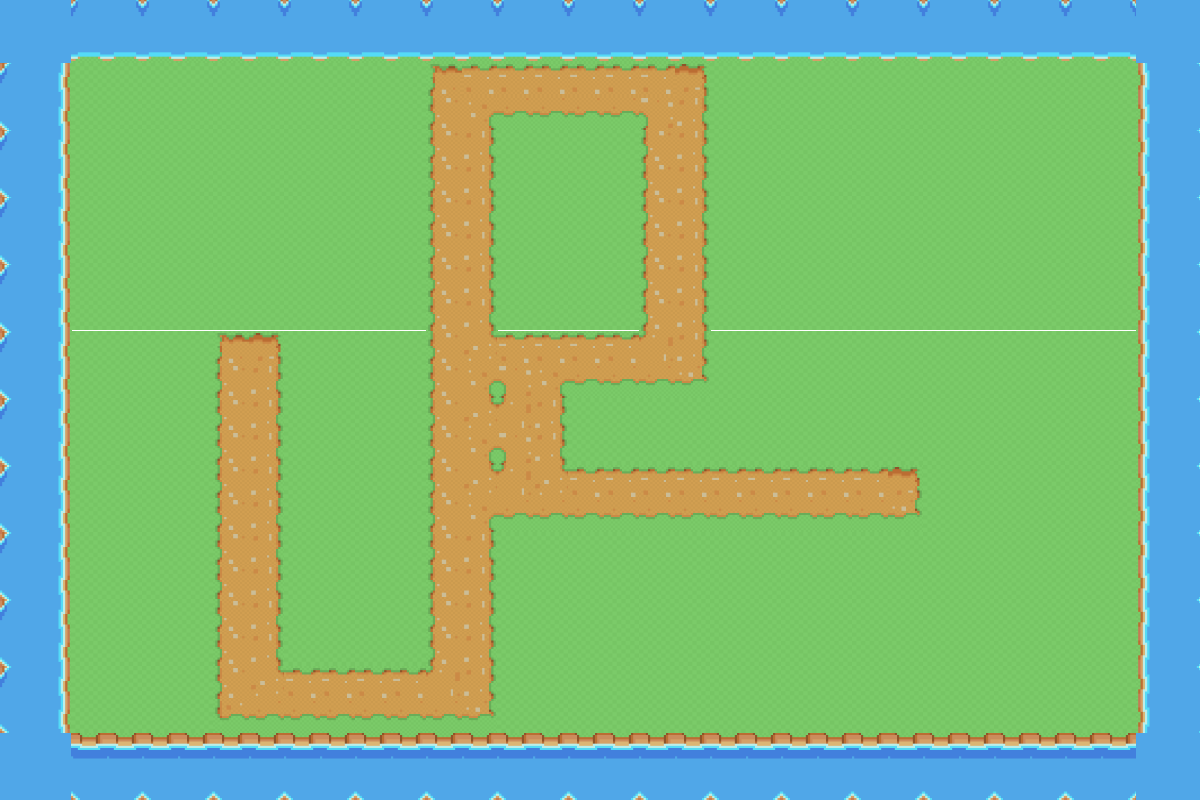
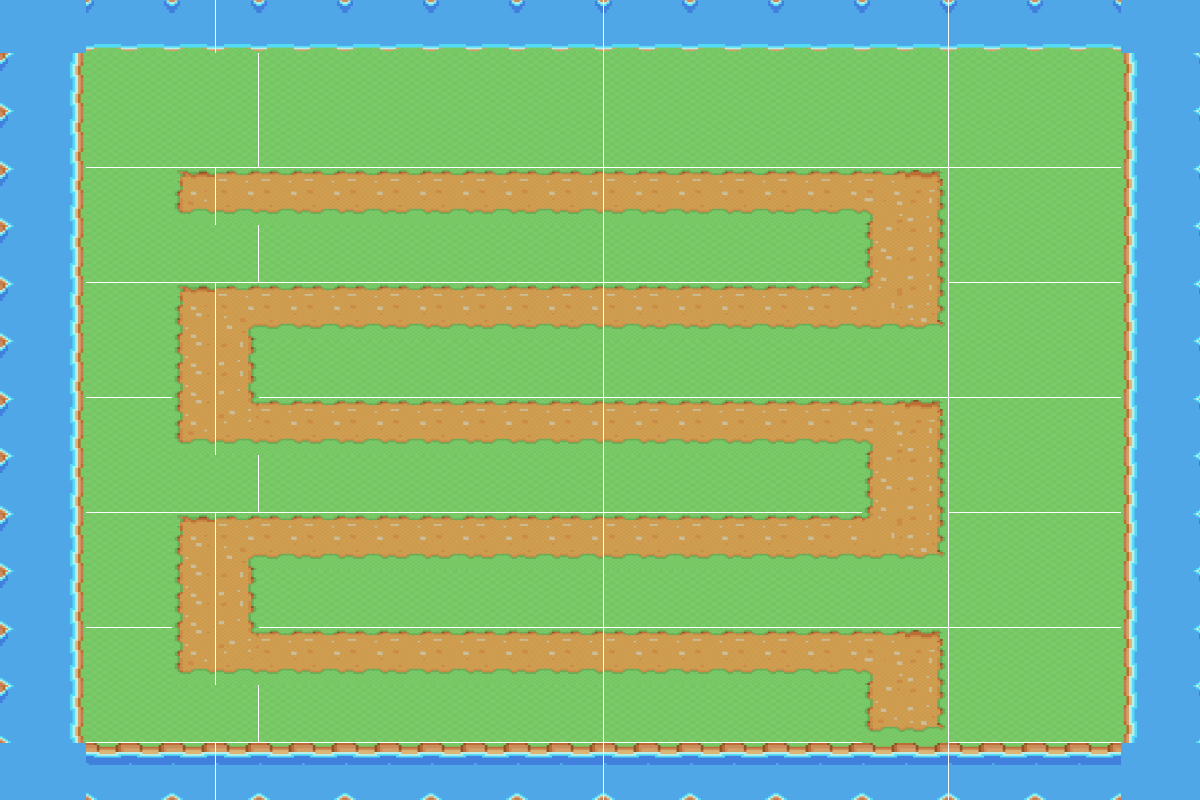
New visuals of tiles in level editor. We can now extends spawn location.

diff --git a/src/warcraftTD/WorldEditor.java b/src/warcraftTD/WorldEditor.java
@@ -21,8 +21,6 @@ public class WorldEditor extends World{
 
     private TreeMap<Position, Tile> positionTileMap;
 
-    private boolean displayWater;
-
     public WorldEditor(int width, int height, MainMenu menu) throws UnsupportedAudioFileException, IOException, LineUnavailableException {
         super(width, height, menu);
         this.setNbSquareX(11);
@@ -33,8 +31,11 @@ public class WorldEditor extends World{
         StdDraw.enableDoubleBuffering();
 
         this.HUD = new InterfaceEditor(this);
-        this.displayWater = false;
         this.positionTileMap = new TreeMap<>();
+        generatePath();
+
+        //this.positionTileMap.put(new Position(2,0),new Pathway(new Position(0.16,0.05), 0.1,0.1));
+        //this.positionTileMap.get(new Position(2,0)).updateDirectionValue(this.positionTileMap, true);
     }
 
     public void refreshSquareSize(){
@@ -89,7 +90,7 @@ public class WorldEditor extends World{
     }
 
     public void drawBackground() {
-        for (int i = 0; i < this.getNbSquareX(); i++) {
+        /*for (int i = 0; i < this.getNbSquareX(); i++) {
           for (int j = 0; j < this.getNbSquareY(); j++) {
               StdDraw.setPenColor(StdDraw.LIGHT_GREEN);
               StdDraw.filledRectangle(i * this.getSquareWidth() + this.getSquareWidth(), j * this.getSquareHeight() + this.getSquareHeight(), this.getSquareWidth() , this.getSquareHeight());
@@ -97,7 +98,38 @@ public class WorldEditor extends World{
               StdDraw.rectangle(i * this.getSquareWidth() + this.getSquareWidth(), j * this.getSquareHeight() + this.getSquareHeight(), this.getSquareWidth() , this.getSquareHeight());
             //StdDraw.picture(i * squareWidth + squareWidth / 2, j * squareHeight + squareHeight / 2, "images/grass.jpg", squareWidth, squareHeight);
           }
+        }*/
+        for (Map.Entry<Position, Tile> tileEntry : this.positionTileMap.entrySet()) {
+            tileEntry.getValue().drawStaticPart();
         }
+    }
+
+    public void generatePath() {
+        this.positionTileMap = new TreeMap<>();
+
+        for (int i = 0; i < this.getNbSquareX(); i++) {
+            for (int j = 0; j < this.getNbSquareY(); j++) {
+                final Position position = new Position(i, j);
+
+                if (this.getPaths().contains(position)) {
+
+                    final Pathway pathway = new Pathway(position, this.getSquareHeight(), this.getSquareWidth());
+                    this.positionTileMap.put(position, pathway);
+                } else {
+                    final Grass grass = new Grass(position, this.getSquareHeight(), this.getSquareWidth());
+                    this.positionTileMap.put(position, grass);
+                }
+            }
+        }
+
+        /*Position spawnPath = this.getPaths().get(0);
+        Position finishPath = this.getPaths().get(this.getPaths().size() - 1);
+        this.positionTileMap.get(spawnPath).replaceContains(new IndestructibleEntity("images/tiles/rock.png", 0.1));
+        this.positionTileMap.get(finishPath).replaceContains(new IndestructibleEntity("images/tiles/house.png", 0.15));*/
+
+
+        this.positionTileMap.forEach((position, tile) -> tile.updateDirectionValue(this.positionTileMap, false));
+
     }
 
     /**
@@ -105,7 +137,7 @@ public class WorldEditor extends World{
      */
     public void drawPath() {
         StdDraw.setPenColor(StdDraw.YELLOW);
-		 Iterator<Position> i = getPaths().iterator();
+		 /*Iterator<Position> i = getPaths().iterator();
 		 Position p;
 		 while (i.hasNext()) {
 		 	p = i.next();
@@ -116,12 +148,19 @@ public class WorldEditor extends World{
 			 StdDraw.setPenColor(StdDraw.PRINCETON_ORANGE);
              StdDraw.rectangle(coorX, coorY, this.getSquareWidth()/2 , this.getSquareHeight()/2);
 			 //StdDraw.picture(coorX, coorY, "images/sand.jpg", squareWidth, squareHeight);
-		 }
+		 }*/
 		 if(this.getPaths().size()>0){
              StdDraw.setPenColor(StdDraw.BLACK);
              StdDraw.setFont(new Font("Arial", Font.BOLD, 30));
 		     StdDraw.text(this.getPaths().get(0).getX()/this.getNbSquareX() + this.getSquareWidth()/2,this.getPaths().get(0).getY()/this.getNbSquareY() + this.getSquareHeight()/2, "Spawn");
          }
+    }
+
+    public void clearPath(){
+        for(Position p : this.getPaths()){
+            this.positionTileMap.put(p,new Grass(p, this.getSquareHeight(),this.getSquareWidth()));
+        }
+        this.getPaths().clear();
     }
 
     public int update() {
@@ -133,10 +172,7 @@ public class WorldEditor extends World{
     }
 
     public void mouseClick(double x, double y, int mouseButton) throws UnsupportedAudioFileException, IOException, LineUnavailableException {
-        double normalizedX = (int) (x / this.getSquareWidth()) * this.getSquareWidth() + this.getSquareWidth() / 2;
-        double normalizedY = (int) (y / this.getSquareHeight()) * this.getSquareHeight() + this.getSquareHeight() / 2;
-        Position p = new Position(normalizedX, normalizedY);
-        Position mousep = new Position((int) ((normalizedX * this.getNbSquareX())), (int) ((normalizedY * this.getNbSquareY())));
+        Position tilePosition = new Position((int) Math.floor(StdDraw.mouseX() * this.getNbSquareX()), (int) Math.floor(StdDraw.mouseY() * this.getNbSquareY()));
 
         if(this.HUD.onClick(x,y,mouseButton)) return;
 
@@ -144,27 +180,53 @@ public class WorldEditor extends World{
             case None:
                 break;
             case Path:
-                if(!this.getPaths().contains(mousep)){
-                    if(((this.getPaths().get(this.getPaths().size()-1).equals(new Position(mousep.getX()+1, mousep.getY())) ? 1 : 0) + (this.getPaths().get(this.getPaths().size()-1).equals(new Position(mousep.getX()-1, mousep.getY())) ? 1 : 0) + (this.getPaths().get(this.getPaths().size()-1).equals(new Position(mousep.getX(), mousep.getY()+1)) ? 1 : 0) + (this.getPaths().get(this.getPaths().size()-1).equals(new Position(mousep.getX(), mousep.getY()-1)) ? 1 : 0) == 1)){
-                        if(((this.getPaths().contains(new Position(mousep.getX()+1, mousep.getY())) ? 1 : 0) + (this.getPaths().contains(new Position(mousep.getX()-1, mousep.getY())) ? 1 : 0) + (this.getPaths().contains(new Position(mousep.getX(), mousep.getY()+1)) ? 1 : 0) + (this.getPaths().contains(new Position(mousep.getX(), mousep.getY()-1)) ? 1 : 0) == 1)) {
-                            this.getPaths().add(mousep);
+                if(!this.getPaths().contains(tilePosition)){
+                    if(((this.getPaths().get(this.getPaths().size()-1).equals(new Position(tilePosition.getX()+1, tilePosition.getY())) ? 1 : 0) + (this.getPaths().get(this.getPaths().size()-1).equals(new Position(tilePosition.getX()-1, tilePosition.getY())) ? 1 : 0) + (this.getPaths().get(this.getPaths().size()-1).equals(new Position(tilePosition.getX(), tilePosition.getY()+1)) ? 1 : 0) + (this.getPaths().get(this.getPaths().size()-1).equals(new Position(tilePosition.getX(), tilePosition.getY()-1)) ? 1 : 0) == 1)){
+                        if(((this.getPaths().contains(new Position(tilePosition.getX()+1, tilePosition.getY())) ? 1 : 0) + (this.getPaths().contains(new Position(tilePosition.getX()-1, tilePosition.getY())) ? 1 : 0) + (this.getPaths().contains(new Position(tilePosition.getX(), tilePosition.getY()+1)) ? 1 : 0) + (this.getPaths().contains(new Position(tilePosition.getX(), tilePosition.getY()-1)) ? 1 : 0) == 1)) {
+                            this.getPaths().add(tilePosition);
+
+                            this.positionTileMap.put(tilePosition,new Pathway(tilePosition, this.getSquareHeight(),this.getSquareWidth()));
+                            this.positionTileMap.get(tilePosition).updateDirectionValue(this.positionTileMap, true);
+                            break;
+                        }
+                    }
+                    if(((this.getPaths().get(0).equals(new Position(tilePosition.getX()+1, tilePosition.getY())) ? 1 : 0) + (this.getPaths().get(0).equals(new Position(tilePosition.getX()-1, tilePosition.getY())) ? 1 : 0) + (this.getPaths().get(0).equals(new Position(tilePosition.getX(), tilePosition.getY()+1)) ? 1 : 0) + (this.getPaths().get(0).equals(new Position(tilePosition.getX(), tilePosition.getY()-1)) ? 1 : 0) == 1)){
+                        if(((this.getPaths().contains(new Position(tilePosition.getX()+1, tilePosition.getY())) ? 1 : 0) + (this.getPaths().contains(new Position(tilePosition.getX()-1, tilePosition.getY())) ? 1 : 0) + (this.getPaths().contains(new Position(tilePosition.getX(), tilePosition.getY()+1)) ? 1 : 0) + (this.getPaths().contains(new Position(tilePosition.getX(), tilePosition.getY()-1)) ? 1 : 0) == 1)) {
+                            this.getPaths().add(0, tilePosition);
+
+                            this.positionTileMap.put(tilePosition,new Pathway(tilePosition, this.getSquareHeight(),this.getSquareWidth()));
+                            this.positionTileMap.get(tilePosition).updateDirectionValue(this.positionTileMap, true);
+                            break;
                         }
                     }
                 }
                 break;
             case RemovePath:
-                if(getPaths().size()>0 && (this.getPaths().get(0).equals(mousep) || this.getPaths().get(this.getPaths().size()-1).equals(mousep))){
-                    this.getPaths().remove(mousep);
+                if(getPaths().size()==0) break;
+                if(this.getPaths().get(0).equals(tilePosition)){
+                    this.getPaths().remove(tilePosition);
+                    this.positionTileMap.put(tilePosition,new Grass(tilePosition, this.getSquareHeight(),this.getSquareWidth()));
                     if(getPaths().size()==0) this.HUD.getPathButton().setEnabled(false);
+                    else this.positionTileMap.get(this.getPaths().get(0)).updateDirectionValue(this.positionTileMap, true);
+                } else if(this.getPaths().get(this.getPaths().size()-1).equals(tilePosition)){
+                    this.getPaths().remove(tilePosition);
+                    this.positionTileMap.put(tilePosition,new Grass(tilePosition, this.getSquareHeight(),this.getSquareWidth()));
+                    if(getPaths().size()==0) this.HUD.getPathButton().setEnabled(false);
+                    else this.positionTileMap.get(this.getPaths().get(this.getPaths().size()-1)).updateDirectionValue(this.positionTileMap, true);
                 }
                 break;
             case Spawn:
-                if(!this.getPaths().contains(mousep)){
+                if(!this.getPaths().contains(tilePosition)){
                     if(this.getPaths().size()==0){
-                        this.getPaths().add(mousep);
+                        this.getPaths().add(tilePosition);
+                        this.positionTileMap.put(tilePosition,new Pathway(tilePosition, this.getSquareHeight(),this.getSquareWidth()));
+                        this.positionTileMap.get(tilePosition).updateDirectionValue(this.positionTileMap, true);
                     } else {
+                        this.positionTileMap.put(this.getPaths().get(0), new Grass(this.getPaths().get(0), this.getSquareHeight(),this.getSquareWidth()));
                         this.setPaths(new ArrayList<Position>());
-                        this.getPaths().add(mousep);
+                        this.getPaths().add(tilePosition);
+                        this.positionTileMap.put(tilePosition,new Pathway(tilePosition, this.getSquareHeight(),this.getSquareWidth()));
+                        this.positionTileMap.get(tilePosition).updateDirectionValue(this.positionTileMap, true);
                     }
                     this.HUD.getPathButton().setEnabled(true);
                 }

diff --git a/src/warcraftTD/hud/InterfaceEditor.java b/src/warcraftTD/hud/InterfaceEditor.java
@@ -630,6 +630,7 @@ public class InterfaceEditor extends Interface{
                 if(this.world.getNbSquareX()<50){
                     this.world.setNbSquareX(this.world.getNbSquareX()+1);
                     this.world.refreshSquareSize();
+                    this.world.generatePath();
                     this.widthText.setText(this.world.getNbSquareX()+"");
                 }
                 this.world.setNeedReleaseMouse(true);
@@ -643,6 +644,7 @@ public class InterfaceEditor extends Interface{
                     if(this.world.getNbSquareX()>maxWidth+1) {
                         this.world.setNbSquareX(this.world.getNbSquareX() - 1);
                         this.world.refreshSquareSize();
+                        this.world.generatePath();
                         this.widthText.setText(this.world.getNbSquareX() + "");
                     }
                 }
@@ -652,6 +654,7 @@ public class InterfaceEditor extends Interface{
                 if(this.world.getNbSquareY()<50){
                     this.world.setNbSquareY(this.world.getNbSquareY()+1);
                     this.world.refreshSquareSize();
+                    this.world.generatePath();
                     this.heightText.setText(this.world.getNbSquareY()+"");
                 }
                 this.world.setNeedReleaseMouse(true);
@@ -665,6 +668,7 @@ public class InterfaceEditor extends Interface{
                     if(this.world.getNbSquareY()>maxHeight+1){
                         this.world.setNbSquareY(this.world.getNbSquareY()-1);
                         this.world.refreshSquareSize();
+                        this.world.generatePath();
                         this.heightText.setText(this.world.getNbSquareY()+"");
                     }
 
@@ -700,7 +704,7 @@ public class InterfaceEditor extends Interface{
                 this.world.setNeedReleaseMouse(true);
                 break;
             case "ClearPath":
-                this.world.setPaths(new ArrayList<Position>());
+                this.world.clearPath();
                 this.world.setNeedReleaseMouse(true);
                 this.pathButton.setEnabled(false);
                 break;

diff --git a/src/warcraftTD/WorldGame.java b/src/warcraftTD/WorldGame.java
@@ -118,6 +118,7 @@ public class WorldGame extends World {
 
     this.positionTileMap = new TreeMap<>();
 
+
     this.initTerrain();
     this.currentStateGame = StateGame.Game;
     this.buildingCursor = new warcraftTD.utils.Cursor(this.getSquareWidth() / 2, this.getSquareHeight() / 2);
